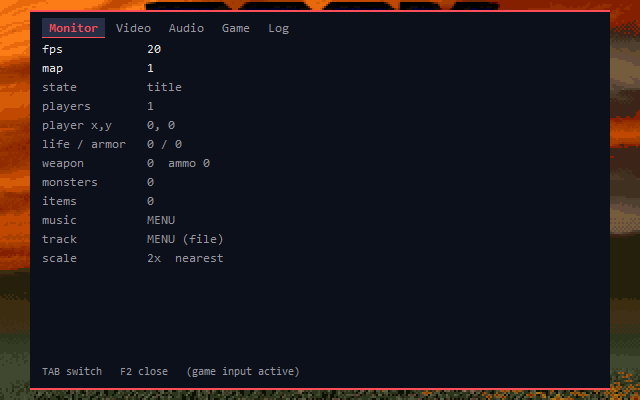
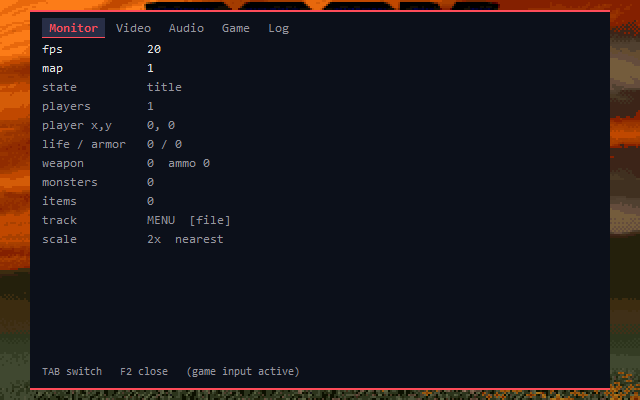
Overlay stops flickering; track names decode as CP1251
The overlay was painted straight onto the window after the frame, so a WM_PAINT
arriving between the two calls repainted the window without it, and the overlay
visibly blinked. Everything - frame, letterbox bars, overlay - now goes into a
client-sized back buffer and reaches the window in one BitBlt.

Track names in the modules and in the WAD are CP1251 ("Конец"), written by a
Russian tracker; they were read as Latin-1, which turned every Cyrillic byte into
its own mojibake character. That is why the overlay showed a row of question
marks. The name fields are decoded as CP1251 now (a superset of ASCII, so Latin
names are unaffected), and Describe() transliterates for the places that cannot
draw Cyrillic.

The Monitor tab also stopped printing the same track twice: one line, with the
source in brackets.

Changed region(s): [[0.2188, 0.54, 0.375, 0.66], [0.0625, 0.54, 0.125, 0.66]]

diff --git a/DPTDOOM2D/Win32/Win32Window.cs b/DPTDOOM2D/Win32/Win32Window.cs
@@ -6,6 +6,7 @@
 using System;
 using System.Collections.Generic;
 using System.Runtime.InteropServices;
+using DPTDOOM2D.Engine;
 
 namespace DPTDOOM2D.Win32
 {
@@ -337,62 +338,78 @@ namespace DPTDOOM2D.Win32
 
             NativeMethods.CopyMemory(surfaceBits, pixels, (IntPtr)(pixelWidth * pixelHeight * 4));
 
+            EnsureBackBuffer();
+            if (backDc == IntPtr.Zero) return;
+
+            // Everything goes into the back buffer and reaches the window in one
+            // BitBlt. Painting the frame and then the overlay straight onto the
+            // window showed the frame alone for the moment between the two calls,
+            // and a WM_PAINT arriving in that window repainted it without the
+            // overlay: that is the flicker.
+            int dstW, dstH, offX = 0, offY = 0;
+            int mode = NativeMethods.COLORONCOLOR;
+
+            if (Stretch == StretchMode.PixelPerfect)
+            {
+                // Integer factor only: pixels stay square, the remainder is
+                // letterboxed. This is the "as the original looked" mode.
+                int factor = Scale;
+                if (factor <= 0)
+                {
+                    int byWidth = clientWidth / pixelWidth;
+                    int byHeight = clientHeight / pixelHeight;
+                    factor = Math.Min(byWidth, byHeight);
+                }
+                if (factor < 1) factor = 1;
+
+                dstW = pixelWidth * factor;
+                dstH = pixelHeight * factor;
+                offX = (clientWidth - dstW) / 2;
+                offY = (clientHeight - dstH) / 2;
+            }
+            else
+            {
+                // Fill the client area. Nearest keeps the pixels crisp and
+                // square-ish; smooth is the bilinear one for people who prefer
+                // the softer look on a high-DPI display.
+                dstW = clientWidth;
+                dstH = clientHeight;
+                if (Stretch == StretchMode.Smooth) mode = NativeMethods.HALFTONE;
+            }
+
+            if (dstW == pixelWidth && dstH == pixelHeight && offX == 0 && offY == 0)
+            {
+                NativeMethods.BitBlt(backDc, 0, 0, pixelWidth, pixelHeight, memoryDc, 0, 0, NativeMethods.SRCCOPY);
+            }
+            else
+            {
+                NativeMethods.SetStretchBltMode(backDc, mode);
+                NativeMethods.StretchBlt(backDc, offX, offY, dstW, dstH, memoryDc, 0, 0, pixelWidth, pixelHeight,
+                    NativeMethods.SRCCOPY);
+            }
+
+            // Letterbox bars: without this the window shows whatever the desktop
+            // had there before, which looks like a rendering bug.
+            if (offX > 0 || offY > 0 || dstW < clientWidth || dstH < clientHeight)
+            {
+                FillRect(backDc, 0, 0, clientWidth, offY, 0, 0, 0, 0);
+                FillRect(backDc, 0, offY + dstH, clientWidth, clientHeight - offY - dstH, 0, 0, 0, 0);
+                FillRect(backDc, 0, offY, offX, dstH, 0, 0, 0, 0);
+                FillRect(backDc, offX + dstW, offY, clientWidth - offX - dstW, dstH, 0, 0, 0, 0);
+            }
+
+            if (OverlayPainter != null)
+            {
+                try { OverlayPainter(backDc, clientWidth, clientHeight); }
+                catch (Exception e) { Log.Error("overlay: draw failed", e); }
+            }
+
             IntPtr dc = NativeMethods.GetDC(hWnd);
             if (dc == IntPtr.Zero) return;
 
             try
             {
-                int dstW, dstH, offX = 0, offY = 0;
-                int mode = NativeMethods.COLORONCOLOR;
-
-                if (Stretch == StretchMode.PixelPerfect)
-                {
-                    // Integer factor only: pixels stay square, the remainder is
-                    // letterboxed. This is the "as the original looked" mode.
-                    int factor = Scale;
-                    if (factor <= 0)
-                    {
-                        int byWidth = clientWidth / pixelWidth;
-                        int byHeight = clientHeight / pixelHeight;
-                        factor = Math.Min(byWidth, byHeight);
-                    }
-                    if (factor < 1) factor = 1;
-
-                    dstW = pixelWidth * factor;
-                    dstH = pixelHeight * factor;
-                    offX = (clientWidth - dstW) / 2;
-                    offY = (clientHeight - dstH) / 2;
-                }
-                else
-                {
-                    // Fill the client area. Nearest keeps the pixels crisp and
-                    // square-ish; smooth is the bilinear one for people who
-                    // prefer the softer look on a high-DPI display.
-                    dstW = clientWidth;
-                    dstH = clientHeight;
-                    if (Stretch == StretchMode.Smooth) mode = NativeMethods.HALFTONE;
-                }
-
-                if (dstW == pixelWidth && dstH == pixelHeight && offX == 0 && offY == 0)
-                {
-                    NativeMethods.BitBlt(dc, 0, 0, pixelWidth, pixelHeight, memoryDc, 0, 0, NativeMethods.SRCCOPY);
-                }
-                else
-                {
-                    NativeMethods.SetStretchBltMode(dc, mode);
-                    NativeMethods.StretchBlt(dc, offX, offY, dstW, dstH, memoryDc, 0, 0, pixelWidth, pixelHeight,
-                        NativeMethods.SRCCOPY);
-                }
-
-                // Letterbox bars: without this the window shows whatever the
-                // desktop had there before, which looks like a rendering bug.
-                if (offX > 0 || offY > 0 || dstW < clientWidth || dstH < clientHeight)
-                {
-                    FillRect(dc, 0, 0, clientWidth, offY, 0, 0, 0, 0);
-                    FillRect(dc, 0, offY + dstH, clientWidth, clientHeight - offY - dstH, 0, 0, 0, 0);
-                    FillRect(dc, 0, offY, offX, dstH, 0, 0, 0, 0);
-                    FillRect(dc, offX + dstW, offY, clientWidth - offX - dstW, dstH, 0, 0, 0, 0);
-                }
+                NativeMethods.BitBlt(dc, 0, 0, clientWidth, clientHeight, backDc, 0, 0, NativeMethods.SRCCOPY);
             }
             finally
             {
@@ -400,16 +417,71 @@ namespace DPTDOOM2D.Win32
             }
 
             NativeMethods.ValidateRect(hWnd, IntPtr.Zero);
+        }
 
-            if (OverlayPainter != null)
+        // ---- back buffer -----------------------------------------------------
+
+        private IntPtr backDc;
+        private IntPtr backBitmap;
+        private IntPtr backPrevious;
+        private int backWidth;
+        private int backHeight;
+
+        /// <summary>Client-sized offscreen surface, so a frame reaches the window whole.</summary>
+        private void EnsureBackBuffer()
+        {
+            if (backDc != IntPtr.Zero && backWidth == clientWidth && backHeight == clientHeight) return;
+
+            ReleaseBackBuffer();
+
+            IntPtr screenDc = NativeMethods.GetDC(hWnd);
+            if (screenDc == IntPtr.Zero) return;
+
+            try
             {
-                IntPtr overlayDc = NativeMethods.GetDC(hWnd);
-                if (overlayDc != IntPtr.Zero)
+                backDc = NativeMethods.CreateCompatibleDC(screenDc);
+                if (backDc == IntPtr.Zero) return;
+
+                backBitmap = NativeMethods.CreateCompatibleBitmap(screenDc, clientWidth, clientHeight);
+                if (backBitmap == IntPtr.Zero)
                 {
-                    try { OverlayPainter(overlayDc, clientWidth, clientHeight); }
-                    finally { NativeMethods.ReleaseDC(hWnd, overlayDc); }
+                    NativeMethods.DeleteDC(backDc);
+                    backDc = IntPtr.Zero;
+                    return;
                 }
+
+                backPrevious = NativeMethods.SelectObject(backDc, backBitmap);
+                backWidth = clientWidth;
+                backHeight = clientHeight;
             }
+            finally
+            {
+                NativeMethods.ReleaseDC(hWnd, screenDc);
+            }
+        }
+
+        private void ReleaseBackBuffer()
+        {
+            if (backDc != IntPtr.Zero)
+            {
+                if (backPrevious != IntPtr.Zero)
+                {
+                    NativeMethods.SelectObject(backDc, backPrevious);
+                    backPrevious = IntPtr.Zero;
+                }
+
+                NativeMethods.DeleteDC(backDc);
+                backDc = IntPtr.Zero;
+            }
+
+            if (backBitmap != IntPtr.Zero)
+            {
+                NativeMethods.DeleteObject(backBitmap);
+                backBitmap = IntPtr.Zero;
+            }
+
+            backWidth = 0;
+            backHeight = 0;
         }
 
         /// <summary>Paints text with GDI: used by the overlay, never into the framebuffer.</summary>
@@ -602,6 +674,7 @@ namespace DPTDOOM2D.Win32
             disposed = true;
 
             ReleaseSurface();
+            ReleaseBackBuffer();
 
             foreach (IntPtr font in fonts.Values) NativeMethods.DeleteObject(font);
             fonts.Clear();

diff --git a/DPTDOOM2D/Audio/XmModule.cs b/DPTDOOM2D/Audio/XmModule.cs
@@ -88,7 +88,7 @@ namespace DPTDOOM2D.Audio
 
             var module = new XmModule();
 
-            module.Name = Latin1(data, 17, 20).TrimEnd('\0', ' ');
+            module.Name = DecodeName(data, 17, 20);
 
             int version = BitConverter.ToUInt16(data, 58);
             int headerSize = BitConverter.ToInt32(data, 60);
@@ -350,6 +350,31 @@ namespace DPTDOOM2D.Audio
         private static string Latin1(byte[] data, int at, int count)
         {
             return System.Text.Encoding.GetEncoding(28591).GetString(data, at, count);
+        }
+
+        /// <summary>
+        /// Decodes a tracker text field.
+        ///
+        /// The names in Doom2D's modules are CP1251 ("Конец"), written by a
+        /// Russian tracker; reading them as Latin-1 turned every Cyrillic byte
+        /// into a separate mojibake character, which is what the overlay used to
+        /// show. CP1251 is a superset of ASCII for 0..127, so Latin names are
+        /// unaffected.
+        /// </summary>
+        private static string DecodeName(byte[] data, int at, int count)
+        {
+            string text;
+
+            try
+            {
+                text = System.Text.Encoding.GetEncoding(1251).GetString(data, at, count);
+            }
+            catch
+            {
+                text = Latin1(data, at, count);
+            }
+
+            return text.TrimEnd('\0', ' ');
         }
     }
 }

diff --git a/DPTDOOM2D/Engine/Music.cs b/DPTDOOM2D/Engine/Music.cs
@@ -340,16 +340,24 @@ namespace DPTDOOM2D.Engine
             return string.IsNullOrEmpty(name) ? "MENU" : name;
         }
 
-        /// <summary>Printable form of a track name, for logs and the overlay.</summary>
+        /// <summary>
+        /// Printable form of a track name, for logs and the overlay.
+        ///
+        /// Track names come from the WAD as CP1251 ("Конец"), so they are
+        /// transliterated the same way the file names are: the overlay then shows
+        /// "KONEC" instead of a row of question marks.
+        /// </summary>
         public static string Describe(string name)
         {
             if (string.IsNullOrEmpty(name)) return "?";
 
-            var text = new StringBuilder(name.Length);
+            bool ascii = true;
             for (int i = 0; i < name.Length; ++i)
-                text.Append(name[i] < 0x20 || name[i] > 0x7E ? '?' : name[i]);
+                if (name[i] < 0x20 || name[i] > 0x7E) { ascii = false; break; }
 
-            return text.ToString();
+            if (ascii) return name;
+
+            return Transliterate(name);
         }
 
         public static string TrackPath(string name)

diff --git a/DPTDOOM2D/Ui/Overlay.cs b/DPTDOOM2D/Ui/Overlay.cs
@@ -367,9 +367,8 @@ namespace DPTDOOM2D.Ui
             lines.Add("weapon         " + DGame.Pl1.Wpn + "  ammo " + DGame.Pl1.Ammo);
             lines.Add("monsters       " + Monsters.Count);
             lines.Add("items          " + Items.Count);
-            lines.Add("music          " + (Music.IsPlaying ? Music.Describe(Music.Current) : "off"));
-            lines.Add("track          " + (Music.TrackName.Length > 0 ? Music.TrackName : "-")
-                + " (" + Music.Source + ")");
+            lines.Add("track          " + (Music.IsPlaying ? Music.TrackName : "off")
+                + "  [" + Music.Source + "]");
             lines.Add("scale          " + (Scale == 0 ? "fit" : Scale + "x")
                 + "  " + Config.StretchName(Stretch));
             if (Net.NetInput.Active) lines.Add("net            " + Net.NetInput.Status());

diff --git a/DPTDOOM2D/Win32/NativeMethods.cs b/DPTDOOM2D/Win32/NativeMethods.cs
@@ -285,6 +285,7 @@ namespace DPTDOOM2D.Win32
         // ---- gdi32 -----------------------------------------------------------
 
         [DllImport("gdi32.dll")] public static extern IntPtr CreateCompatibleDC(IntPtr dc);
+        [DllImport("gdi32.dll")] public static extern IntPtr CreateCompatibleBitmap(IntPtr dc, int width, int height);
         [DllImport("gdi32.dll")] public static extern bool DeleteDC(IntPtr dc);
 
         [DllImport("gdi32.dll")]
